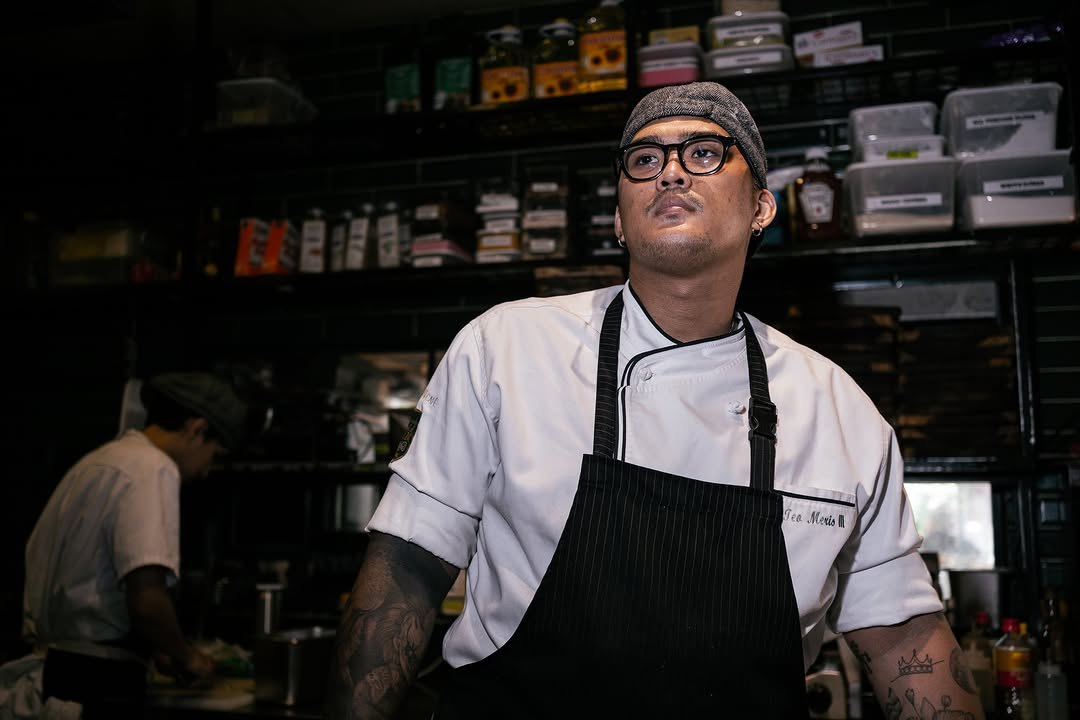
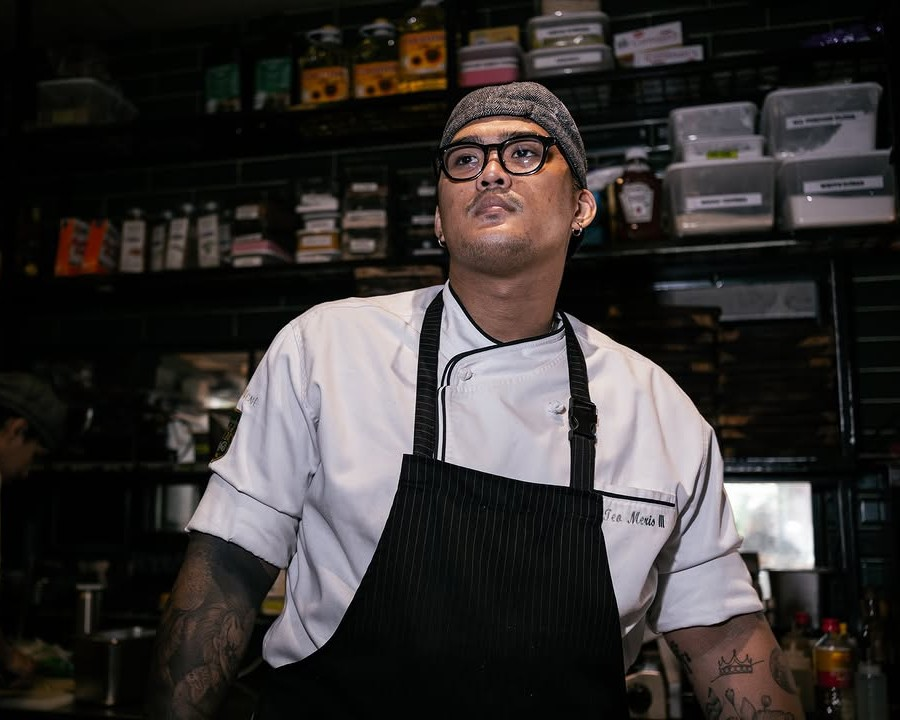
lol

diff --git a/resources/js/pages/about.jsx b/resources/js/pages/about.jsx
@@ -55,7 +55,7 @@ export default function About() {
         </div>
       </div>
 
-            <div className="bg-[#000C1C] text-[#CDAF7B] p-8 md:p-16 font-sans">
+      <div className="bg-[#000C1C] text-[#CDAF7B] p-8 md:p-16 font-sans">
       <div className="max-w-7xl mx-auto grid md:grid-cols-2 gap-12 items-center">
         {/* Left Side (Image + Small Text + Button) */}
         <div className="space-y-6">
@@ -89,6 +89,40 @@ export default function About() {
         </div>
       </div>
     </div>
+<div className='bg-[#000C1C] px-8'>
+  <h3 className='text-white font-felix text-center text-3xl mb-12'>BEHIND THE DISHES</h3>
+
+  <div className='max-w-7xl mx-auto grid md:grid-cols-3 gap-8'>
+
+    {/* Profile 1 */}
+    <div className='backdrop-blur-xl bg-white/[0.02] border border-[#CDAF7B]/40 p-4 space-y-4 hover:bg-white/[0.04]'>
+      <img src='/assets/chef theo.jpg' alt='Chef Theo' className='w-full object-cover' />
+      <div className='text-white leading-relaxed'>
+        <h4 className='text-[#CDAF7B] text-md font-semibold mb-1'>Chef Theo</h4>
+        <p className="text-sm">With a quiet grace and unwavering precision, Chef Theo approaches each dish as a canvas—layering textures, flavors, and colors into artful compositions. His culinary style is rooted in restraint and refinement, letting the ingredients speak with clarity and purpose.</p>
+      </div>
+    </div>
+
+    {/* Profile 2 */}
+    <div className='backdrop-blur-xl bg-white/[0.02] border border-[#CDAF7B]/40 p-4 space-y-4 hover:bg-white/[0.04]'>
+      <img src='/assets/chef marc.jpg' alt='Chef Marc' className='w-full object-cover' />
+      <div className='text-white text-sm leading-relaxed'>
+        <h4 className='text-[#CDAF7B] font-semibold mb-1'>Chef Marc</h4>
+        <p>Bold yet grounded, Chef Marc brings a fearless creativity to the kitchen. His technique is shaped by tradition, but his passion lies in reinventing the familiar. Each plate he creates is a journey—rich with contrast, depth, and the unexpected joy of discovery.</p>
+      </div>
+    </div>
+
+    {/* Profile 3 */}
+    <div className='backdrop-blur-xl bg-white/[0.02] border border-[#CDAF7B]/40 p-4 space-y-4 hover:bg-white/[0.04]'>
+      <img src='/assets/chef gema.jpg' alt='Chef Gema' className='w-full object-cover' />
+      <div className='text-white text-sm leading-relaxed'>
+        <h4 className='text-[#CDAF7B] font-semibold mb-1'>Chef Gema</h4>
+        <p>Chef Gema cooks with intuition and heart, drawing inspiration from family traditions and the warmth of home. Her dishes are soulful, vibrant, and layered with memory—designed to evoke comfort, connection, and a sense of celebration in every bite.</p>
+      </div>
+    </div>
+
+  </div>
+</div>
 
 
     </Layout>

diff --git a/resources/js/pages/menu.jsx b/resources/js/pages/menu.jsx
@@ -99,7 +99,7 @@ const menuData = {
                         { name: 'Domaine De Mauperthuis, Petit Chablis, Chardonnay', description: 'Crisp and dry with mineral notes and a hint of green apple.', price: 550.00 },
                         { name: 'E. Guigal, Viognier | Roussanne | Marsanne | Clairette', description: 'Full-bodied with stone fruit aromas and a creamy finish.', price: 520.00 },
                     ],
-                    image: '/assets/white-wine.png',
+                    image: '/images/menu-wine-white.jpg',
                     imagePosition: 'right',
                 },
                 {
@@ -109,7 +109,7 @@ const menuData = {
                         { name: 'Finca El Origen Single Vineyard Grand Reserva, Malbec', description: 'Deep and intense with plum and chocolate notes.', price: 550.00 },
                         { name: 'Map Maker, Pinot Noir', description: 'Elegant and earthy with red berry fruit and subtle spice.', price: 490.00 },
                     ],
-                    image: '/assets/red-wine.png',
+                    image: '/images/menu-wine-red.jpg',
                     imagePosition: 'left',
                 },
                 {
@@ -121,7 +121,7 @@ const menuData = {
                         { name: 'Ruinart Blanc De Blancs, Chardonnay', description: 'Pure and luminous, made exclusively from Chardonnay grapes.', price: 18000.00 },
                         { name: 'Dom Pérignon, Pinot Noir | Chardonnay | Pinot Meunier', description: 'Prestigious vintage champagne known for complexity and longevity.', price: { '750ml (Vintage 2013)': 29000.00, '1500ml (Vintage 2012)': 55000.00 } },
                     ],
-                    image: '/assets/champagne.png',
+                    image: '/images/menu-wine-champagne.jpg',
                     imagePosition: 'right',
                 },
             ],

diff --git a/resources/js/pages/Welcome.jsx b/resources/js/pages/Welcome.jsx
@@ -20,7 +20,7 @@ export default function Welcome() {
                 className="relative min-h-screen pt-16 sm:pt-0 bg-center bg-cover text-white text-center"
                 style={{ backgroundImage: "url('/assets/herosection.png')" }}
             >
-                <div className="absolute inset-0 bg-black opacity-50 z-0"></div>
+                <div className="absolute inset-0 bg-[#000C1C] opacity-50 z-0"></div>
                 <div className="relative z-10 max-w-7xl mx-auto px-6 lg:px-10 flex items-center justify-center min-h-screen">
                     <div>
                         <h3 className="mt-16 text-4xl text-center sm:text-5xl md:text-7xl font-felix">

diff --git a/resources/js/components/header.jsx b/resources/js/components/header.jsx
@@ -36,7 +36,7 @@ export default function Header() {
 
     return (
         <>
-            <header className={`fixed w-full z-50 transition-all duration-300 ${isScrolled ? 'bg-black/80 backdrop-blur' : 'bg-transparent'}`}>
+            <header className={`fixed w-full z-50 transition-all duration-300 ${isScrolled ? 'bg-[#000C1C]/80 backdrop-blur' : 'bg-transparent'}`}>
                 <div className="container mx-auto px-6 lg:px-10"> {/* added px-6 lg:px-10 for balanced padding */}
 <div className="flex items-center h-16 sm:h-18 md:h-20 relative">
     {/* Left: Logo */}

diff --git a/app/Http/Controllers/AuthController.php b/app/Http/Controllers/AuthController.php
@@ -54,6 +54,7 @@ class AuthController extends Controller
 
     public function logout(Request $request)
     {
+        
         Auth::logout();
 
         $request->session()->invalidate();
